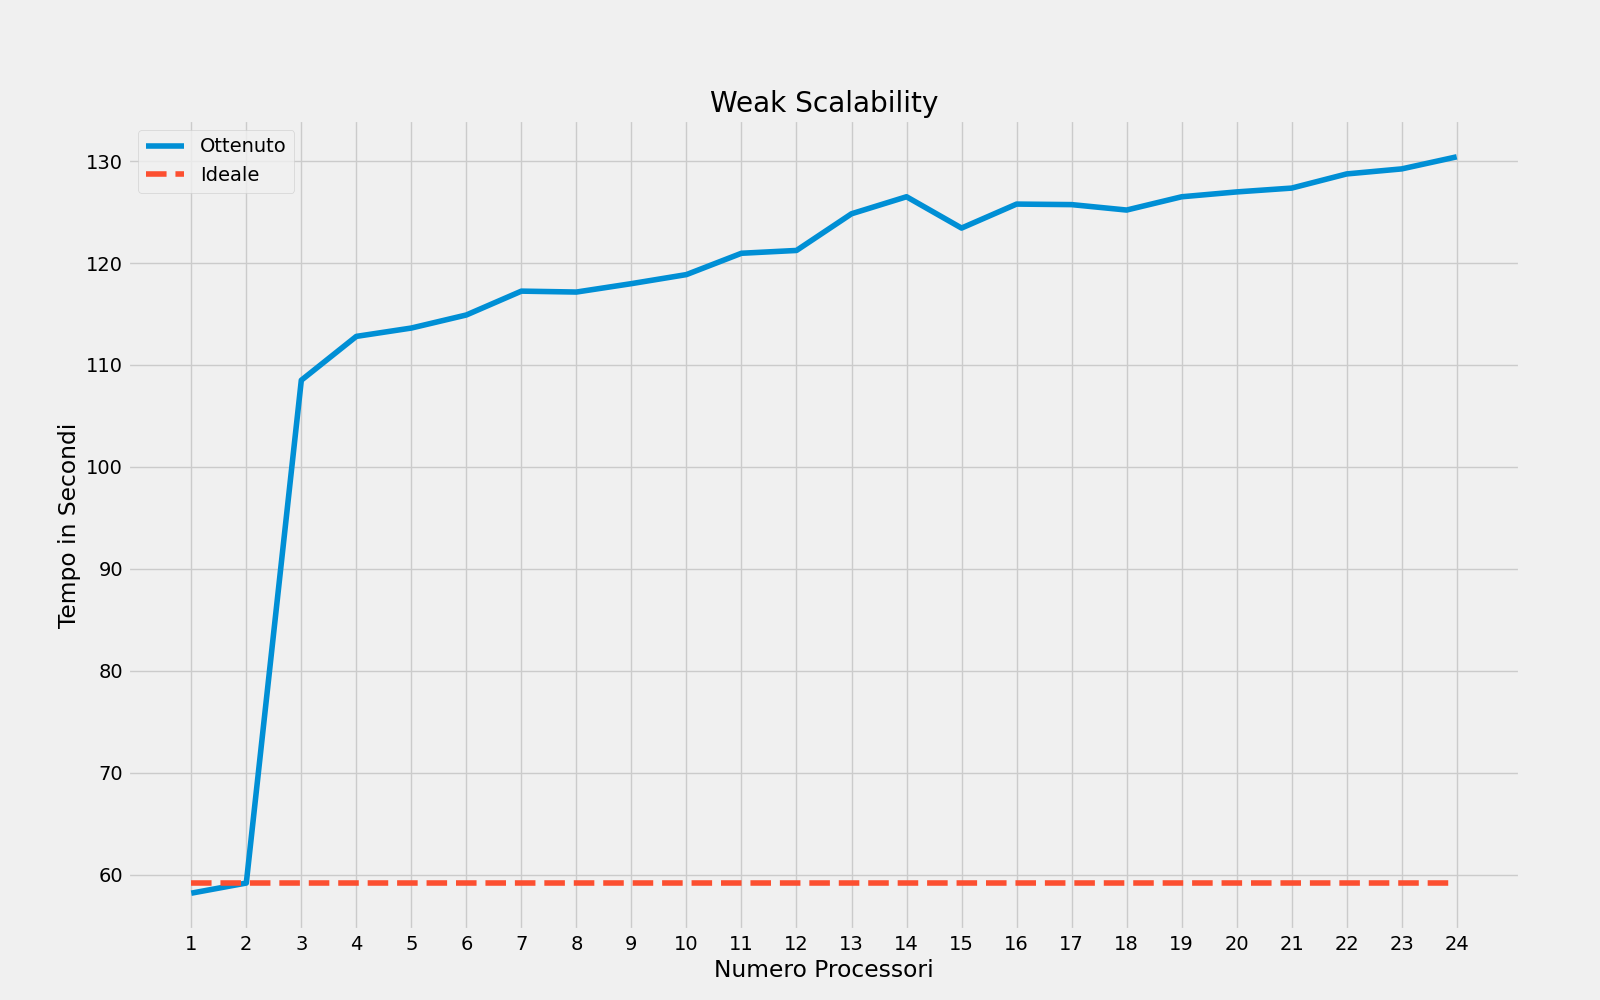
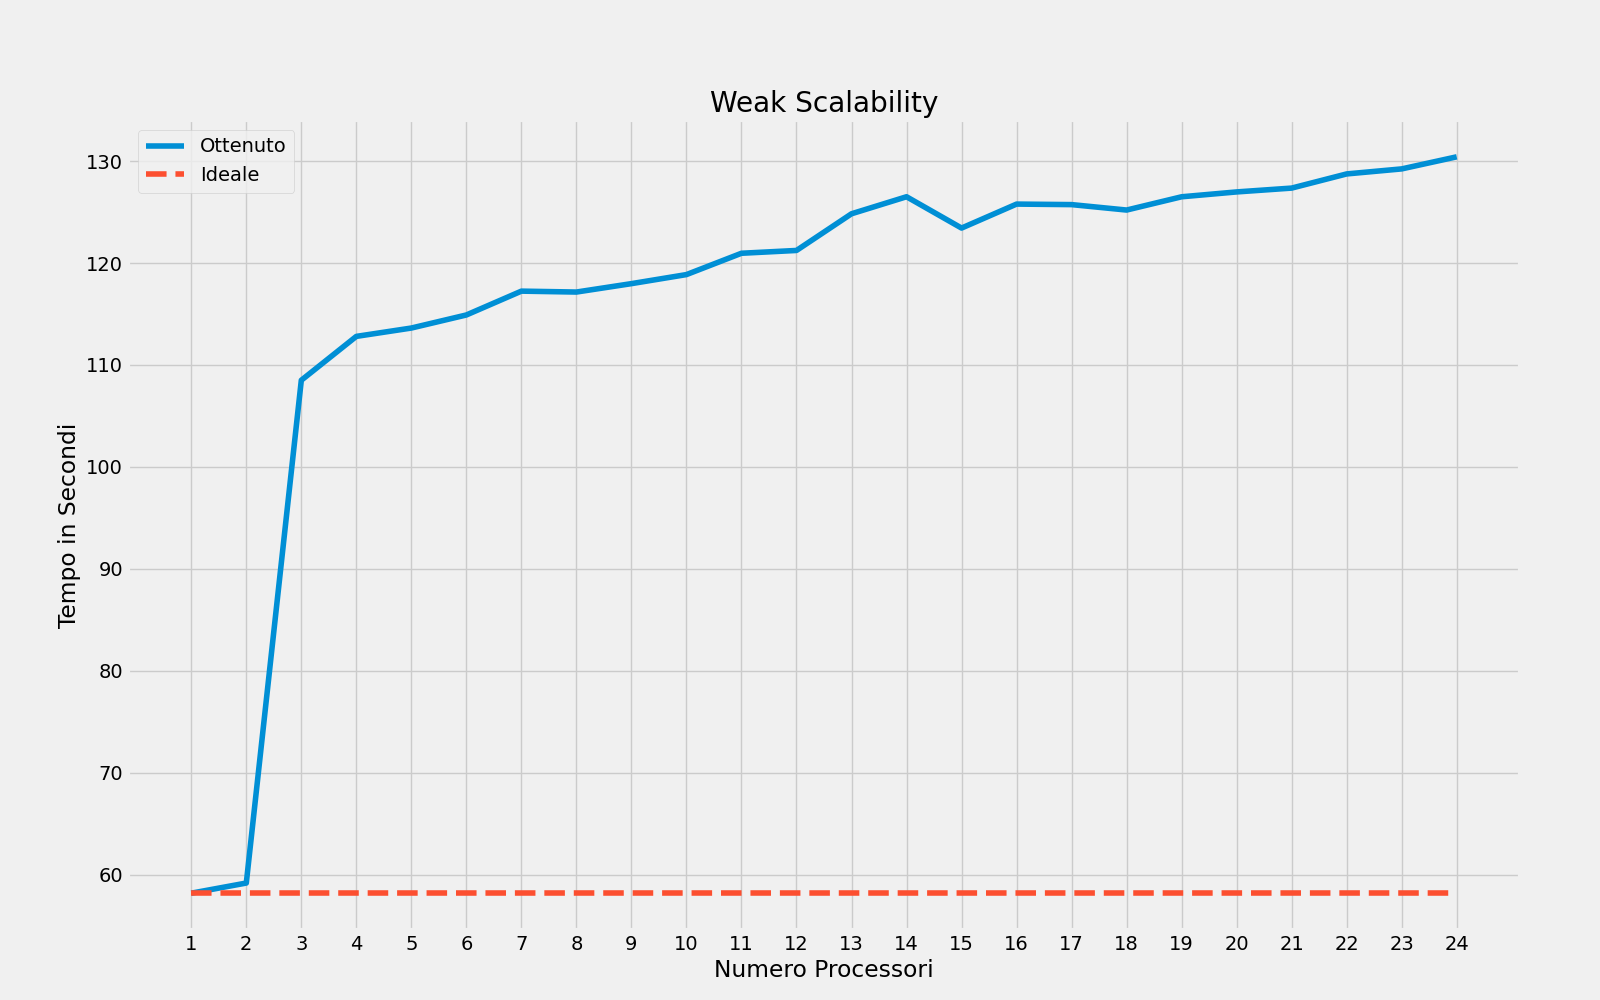
fix a little problem

Changed region(s): [[0.125, 0.868, 0.9062, 0.899]]

diff --git a/generate_charts.py b/generate_charts.py
@@ -34,7 +34,7 @@ def weak_scalability():
     plt.xlabel('Numero Processori')
     plt.ylabel('Tempo in Secondi')
     plt.plot(data['PROCESSES'], data['TIME'], label='Ottenuto')
-    ideale = [data['TIME'][1] for x in range(0,24)]
+    ideale = [data['TIME'][0] for x in range(0,24)]
     plt.plot(data['PROCESSES'], ideale, label='Ideale', linestyle='--')
     plt.legend()
     plt.grid(True)
